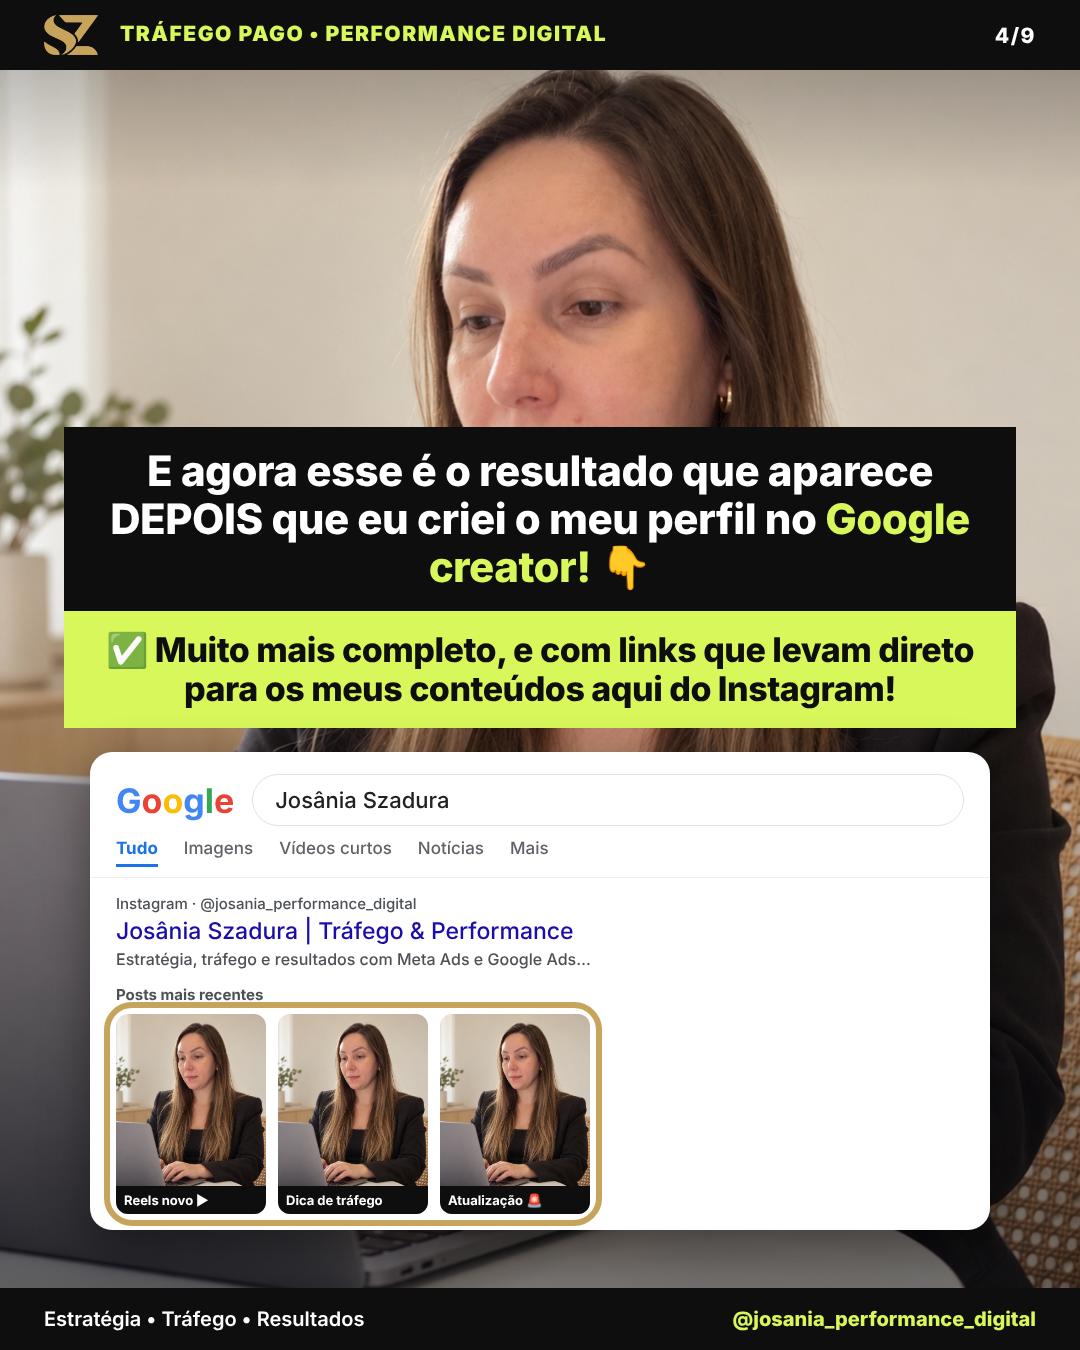
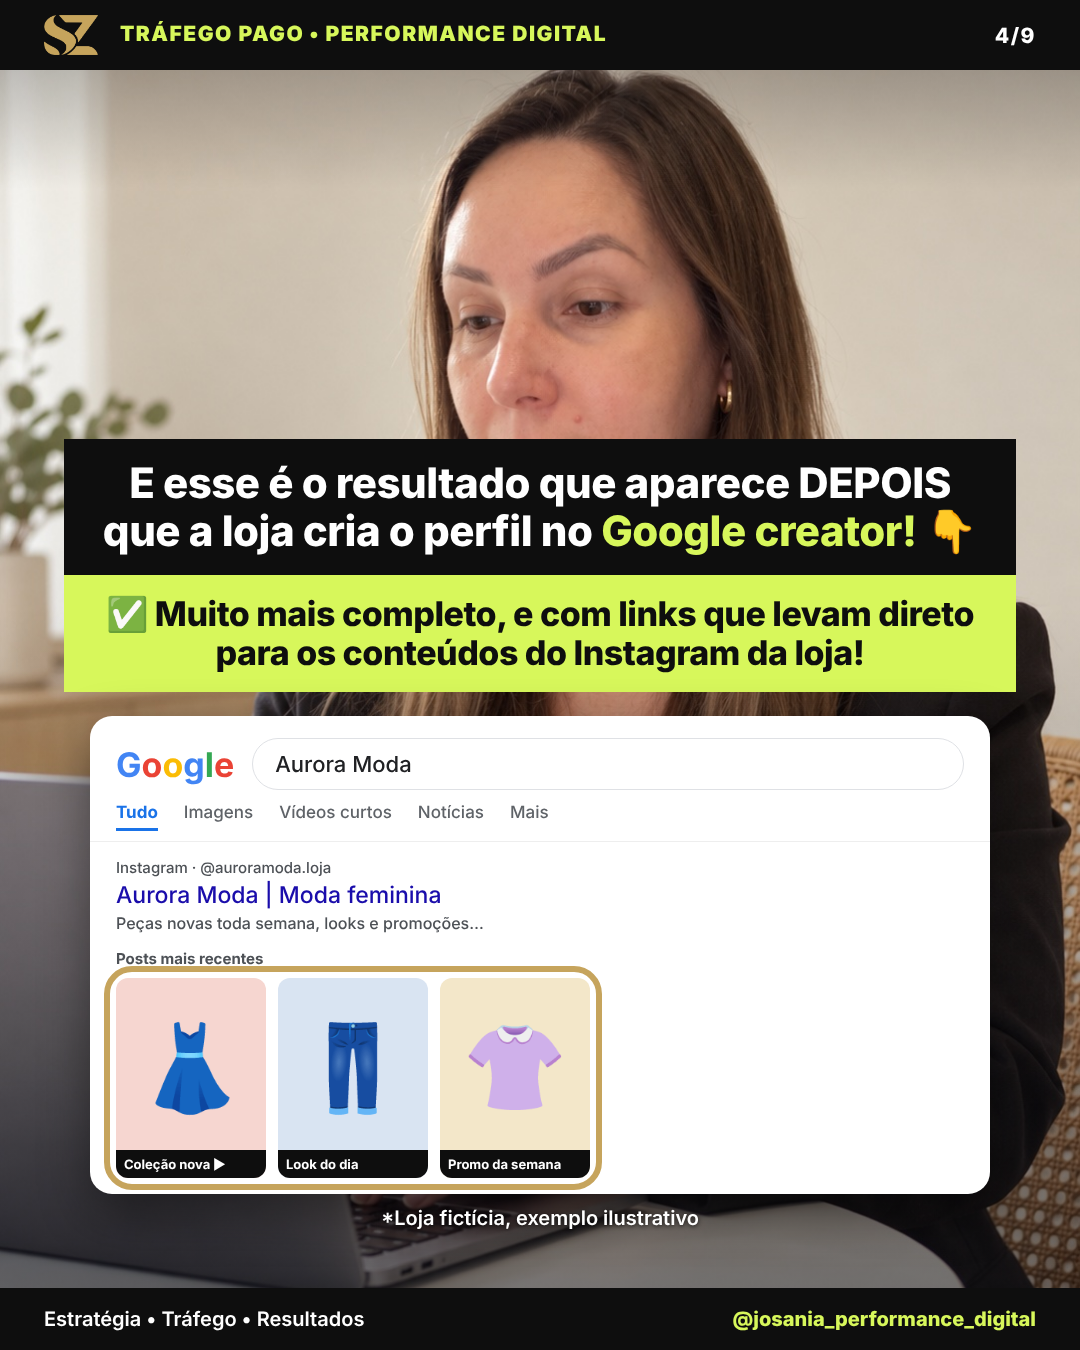
Usa uma loja de roupas fictícia como exemplo no carrossel
Claude-Session: https://claude.ai/code/session_01Cdq3fSAdowyFYcw5UgbxcJ

Changed region(s): [[0.0611, 0.3111, 0.9472, 0.9333]]

diff --git a/conteudos/carrossel-perfil-google/gerar.py b/conteudos/carrossel-perfil-google/gerar.py
@@ -66,6 +66,8 @@ body{{width:1080px;height:1350px;overflow:hidden;font-family:Inter,sans-serif}}
 .posts{{display:inline-flex;gap:12px;margin-top:10px}}
 .thumb{{width:150px;height:200px;border-radius:12px;background:{fundo};background-size:cover;position:relative;overflow:hidden}}
 .thumb i{{position:absolute;left:0;right:0;bottom:0;background:{preto};color:#fff;font:700 13px Inter;font-style:normal;padding:6px 8px}}
+.peca{{position:absolute;top:38px;left:0;right:0;text-align:center;font-size:84px}}
+.nota{{margin-top:12px;color:#fff;font:600 20px Inter;text-shadow:0 1px 4px rgba(0,0,0,.8)}}
 .chip{{display:inline-block;border:1px solid #dadce0;border-radius:20px;padding:6px 14px;font-size:15px;margin-right:8px}}
 .circ{{outline:6px solid {ouro};outline-offset:6px;border-radius:16px}}
 """
@@ -89,17 +91,26 @@ def google(nome, corpo, largura=900):
 {corpo}</div>"""
 
 
+# Exemplo fictício: a dona do perfil ainda não tem os 10 mil seguidores exigidos
+LOJA = {"nome": "Aurora Moda", "perfil": "@auroramoda.loja"}
+PECAS = [("#F6D6D0", "👗", "Coleção nova ▶"), ("#D9E4F2", "👖", "Look do dia"), ("#F3E7C9", "👚", "Promo da semana")]
+NOTA = '<div class="nota">*Loja fictícia, exemplo ilustrativo</div>'
+
+
 def slides(m):
-    nome, perfil = m["nome"], m["perfil"]
+    nome, perfil = LOJA["nome"], LOJA["perfil"]
     usuario = perfil.lstrip("@")
     antes = google(nome, f"""
 <div class="res"><div class="src">instagram.com › {usuario}</div><div class="tit">{nome} (@{usuario}) • Fotos e vídeos do Instagram</div>
 <div class="desc">Veja as fotos e vídeos do Instagram de {nome}…</div></div>
-<div class="res"><div class="src">facebook.com › {usuario}</div><div class="tit">{nome} | Facebook</div><div class="desc">Gestão de tráfego e marketing digital…</div></div>""")
-    thumbs = "".join(f'<div class="thumb"><i>{t}</i></div>' for t in ["Reels novo ▶", "Dica de tráfego", "Atualização 🚨"])
+<div class="res"><div class="src">facebook.com › {usuario}</div><div class="tit">{nome} | Facebook</div><div class="desc">Moda feminina, peças novas toda semana…</div></div>""")
+    thumbs = "".join(
+        f'<div class="thumb" style="background:{cor}"><span class="peca">{emoji}</span><i>{t}</i></div>'
+        for cor, emoji, t in PECAS
+    )
     depois = google(nome, f"""
-<div class="res"><div class="src">Instagram · {perfil}</div><div class="tit">{nome} | Tráfego & Performance</div>
-<div class="desc">Estratégia, tráfego e resultados com Meta Ads e Google Ads…</div>
+<div class="res"><div class="src">Instagram · {perfil}</div><div class="tit">{nome} | Moda feminina</div>
+<div class="desc">Peças novas toda semana, looks e promoções…</div>
 <div class="src" style="margin-top:14px;font-weight:700">Posts mais recentes</div>
 <div class="posts circ">{thumbs}</div></div>""")
     perfil_pg = f"""<div class="mock" style="width:760px">
@@ -108,18 +119,18 @@ def slides(m):
 <div class="src" style="margin:18px 0 6px;font-weight:700">Posts mais recentes</div><div class="posts">{thumbs}</div></div></div>"""
     link = f"""<div class="mock" style="width:760px"><div style="background:{m['cor_fundo']};color:{m['cor_primaria']};padding:44px 30px;text-align:center;font:800 38px Inter">Sua presença oficial<br>no Google</div>
 <div style="padding:22px 30px;background:#eef3ff"><div style="font:700 24px Inter">Google para Criadores | Perfil na Pesquisa</div>
-<div class="desc" style="font-size:19px;margin-top:6px">Uma nova maneira de criadores se destacarem na Pesquisa.</div>
+<div class="desc" style="font-size:19px;margin-top:6px">Uma nova maneira de criadores, marcas e publishers se destacarem na Pesquisa.</div>
 <div class="src" style="margin-top:10px;font-size:18px">🔗 creators.google</div></div></div>"""
     return [
-        f'<img class="selo canto" src="{m["sz_uri"]}"><div class="box ouro sm">🚨 Alerta de ATUALIZAÇÃO</div><div class="box escuro big">que vai fazer você <span class="hl">aparecer muito mais</span> no Google!</div>',
-        '<div class="box branco">Agora você pode criar o seu <span class="hla">perfil de creator</span> no Google!</div><div class="gap"></div><div class="box escuro sm">E ele muda totalmente o que aparece quando alguém pesquisa o seu nome 👀</div>',
-        f'<div class="box escuro sm">Esse era o resultado que aparecia ANTES quando pesquisavam o meu nome 👇</div>{antes}',
-        f'<div class="box escuro sm">E agora esse é o resultado que aparece DEPOIS que eu criei o meu perfil no <span class="hl">Google creator!</span> 👇</div><div class="box lima" style="font-size:34px">✅ Muito mais completo, e com links que levam direto para os meus conteúdos aqui do Instagram!</div>{depois}',
-        f'<div class="box branco sm">E tem mais, se a pessoa clicar em “ver perfil do creator” ela é <span class="hla">direcionada</span> para uma página que tem <span class="hla">todos os links das redes sociais</span> que eu cadastrei 👌🔥</div>{perfil_pg}',
-        f'<div class="box escuro sm">E para criar o seu perfil é muito simples.</div><div class="box branco sm">1) Basta você acessar o site:</div><div class="box lima" style="font-size:40px">https://creators.google/pt-BR/profile</div>{link}',
-        '<div class="box escuro sm">2) Conecte o seu perfil do Instagram para validar a sua inscrição</div><div class="box ouro xs">(Válido apenas para quem tem mais de 10k de seguidores)</div><div class="gap"></div><div class="box branco sm">3) Conecte as duas outras redes sociais</div><div class="gap"></div><div class="box lima sm">4) Conclua o seu cadastro e acesse o seu perfil do Google</div>',
-        '<div class="box escuro sm">5) Agora é só personalizar para deixar todas as suas informações atualizadas</div><div class="gap"></div><div class="box branco sm">E depois de 24 horas você pesquisa o seu nome no Google para ver ele atualizado!</div>',
-        f'<img class="selo" src="{m["sz_uri"]}"><div class="box branco">E se quiser receber mais conteúdos como esse é só seguir</div><div class="box lima" style="font-size:52px">{perfil}</div>',
+        f'<img class="selo canto" src="{m["sz_uri"]}"><div class="box ouro sm">🚨 Alerta de ATUALIZAÇÃO</div><div class="box escuro big">que vai fazer a sua loja <span class="hl">aparecer muito mais</span> no Google!</div>',
+        '<div class="box branco">Agora marcas e lojas podem criar um <span class="hla">perfil de creator</span> no Google!</div><div class="gap"></div><div class="box escuro sm">E ele muda totalmente o que aparece quando alguém pesquisa o nome da sua loja 👀</div>',
+        f'<div class="box escuro sm">Olha o exemplo de uma loja de roupas: esse é o resultado que aparece ANTES 👇</div>{antes}{NOTA}',
+        f'<div class="box escuro sm">E esse é o resultado que aparece DEPOIS que a loja cria o perfil no <span class="hl">Google creator!</span> 👇</div><div class="box lima" style="font-size:34px">✅ Muito mais completo, e com links que levam direto para os conteúdos do Instagram da loja!</div>{depois}{NOTA}',
+        f'<div class="box branco sm">E tem mais, se a cliente clicar em “ver perfil do creator” ela é <span class="hla">direcionada</span> para uma página com <span class="hla">todos os links das redes sociais</span> da loja 👌🔥</div>{perfil_pg}{NOTA}',
+        f'<div class="box escuro sm">E para criar o perfil da sua loja é muito simples.</div><div class="box branco sm">1) Basta você acessar o site:</div><div class="box lima" style="font-size:40px">https://creators.google/pt-BR/profile</div>{link}',
+        '<div class="box escuro sm">2) Conecte o perfil do Instagram da loja para validar a inscrição</div><div class="box ouro xs">(Válido apenas para quem tem mais de 10k de seguidores)</div><div class="gap"></div><div class="box branco sm">3) Conecte as duas outras redes sociais</div><div class="gap"></div><div class="box lima sm">4) Conclua o cadastro e acesse o perfil da loja no Google</div>',
+        '<div class="box escuro sm">5) Agora é só personalizar para deixar todas as informações da loja atualizadas</div><div class="gap"></div><div class="box branco sm">E depois de 24 horas você pesquisa o nome da sua loja no Google para ver ele atualizado!</div>',
+        f'<img class="selo" src="{m["sz_uri"]}"><div class="box branco">E se quiser receber mais conteúdos como esse é só seguir</div><div class="box lima" style="font-size:52px">{m["perfil"]}</div>',
     ]
 
 
